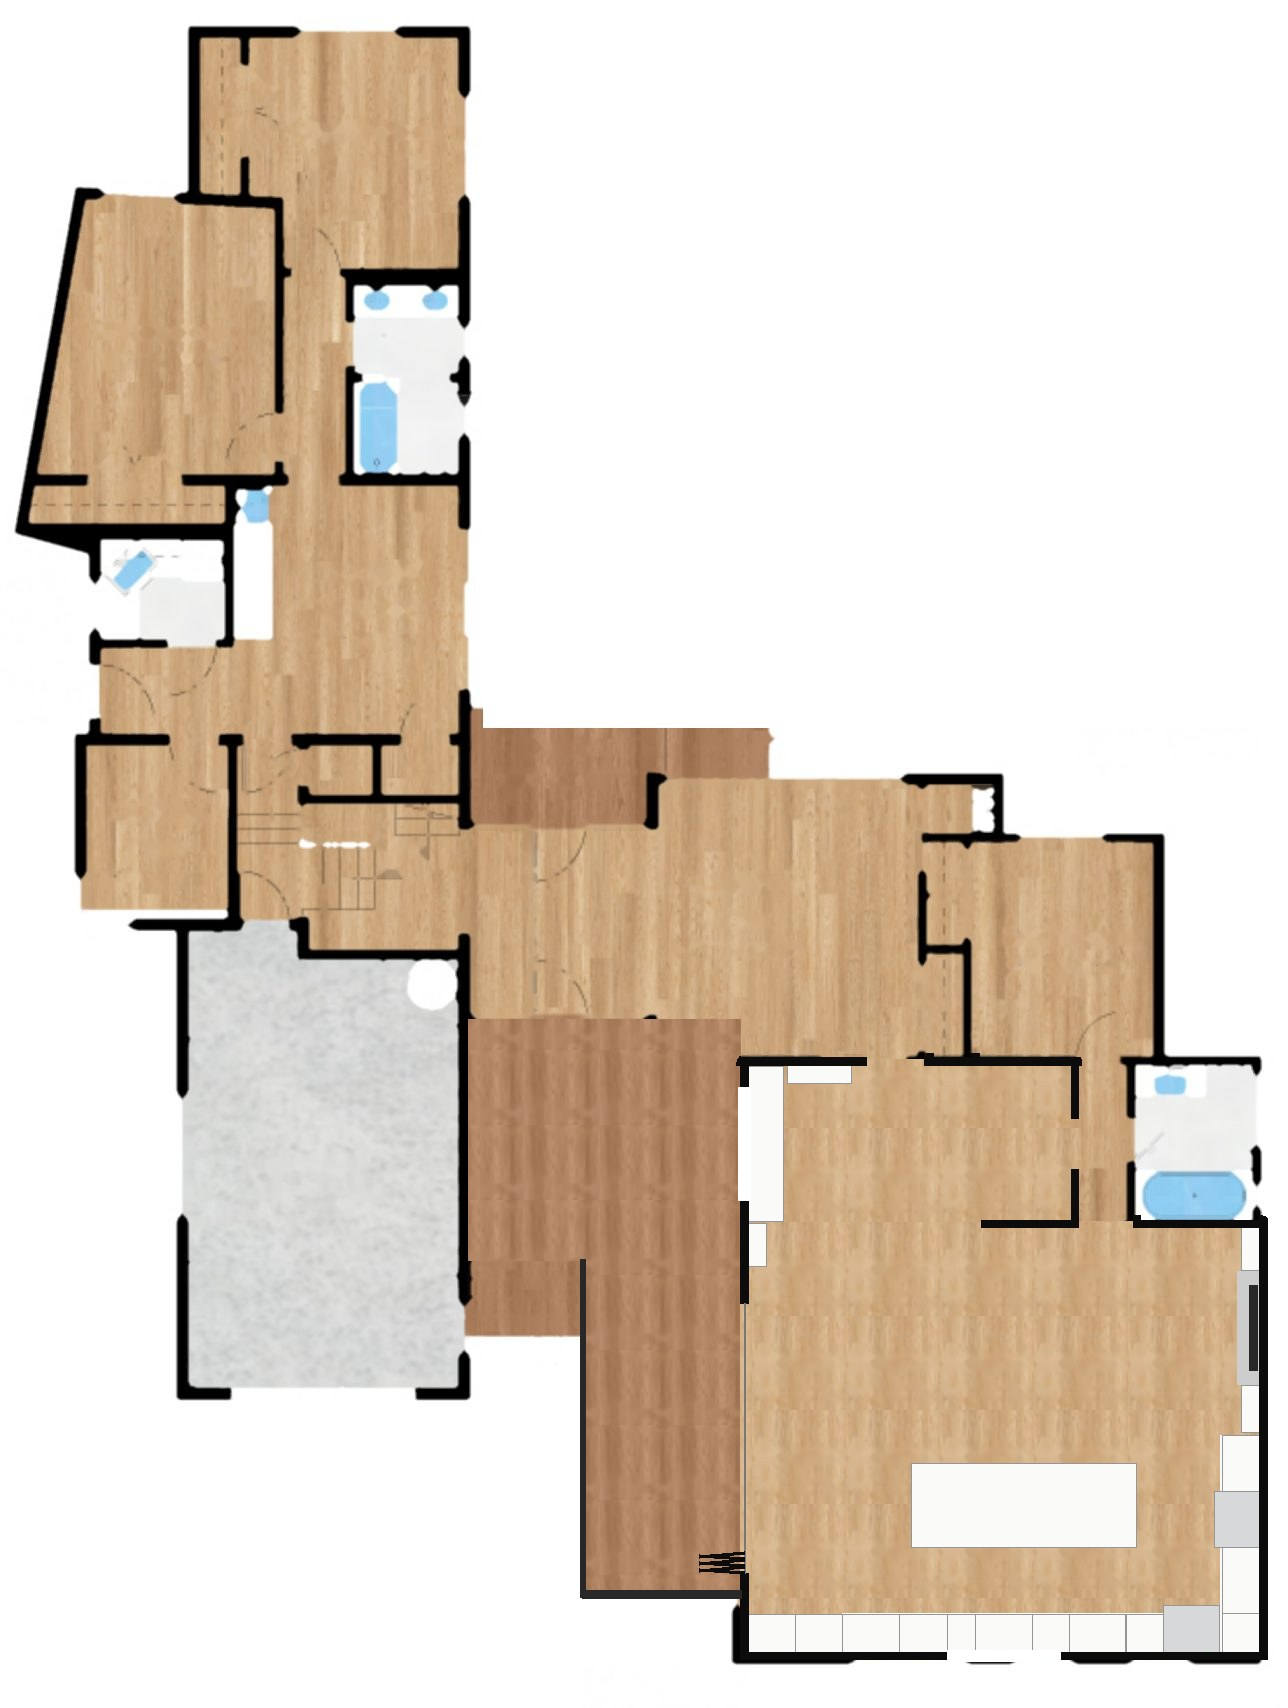
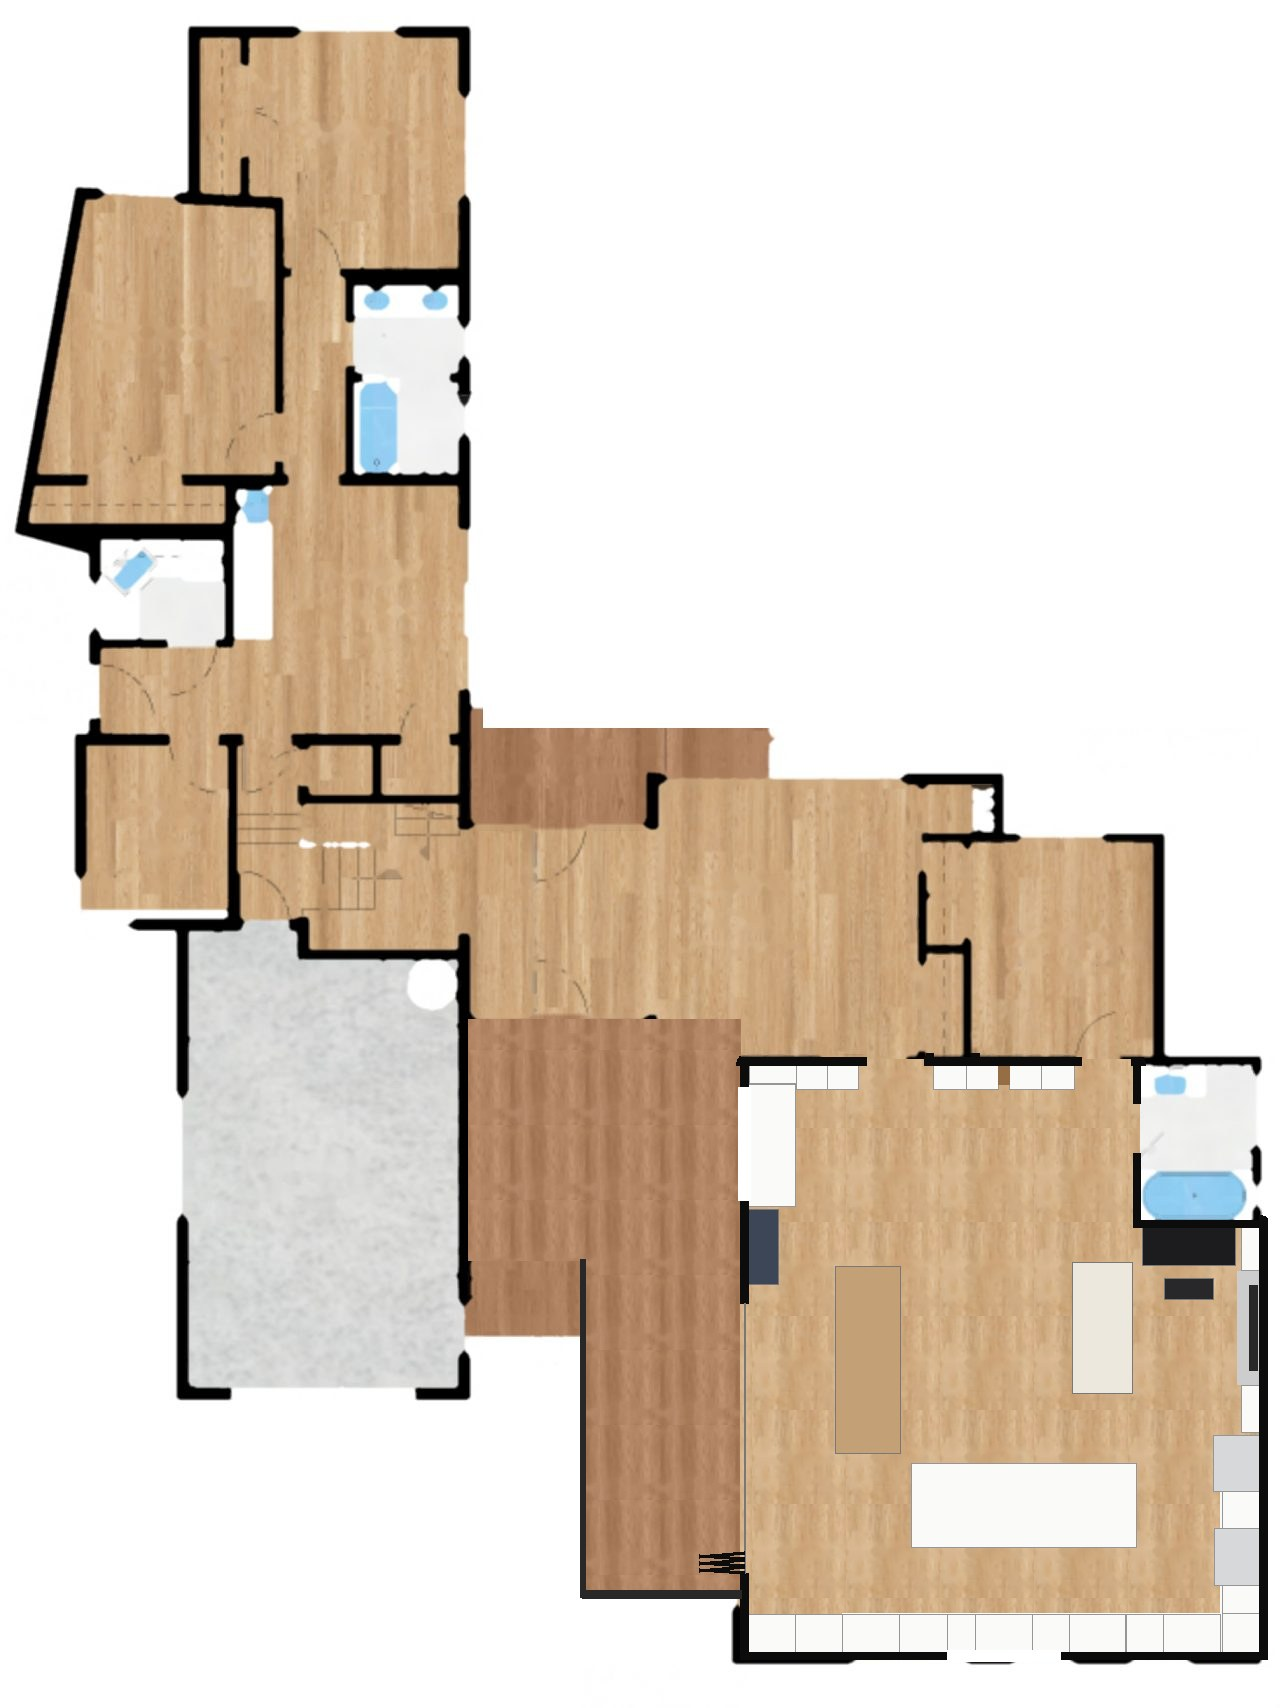
Open kitchen and great room v2: design rationale, corner floor plan image for the new layout
Claude-Session: https://claude.ai/code/session_01Hxt75sfKTMFyJxUTwDrGyS

diff --git a/tour/bim2/tools/minimap_option.py b/tour/bim2/tools/minimap_option.py
@@ -9,6 +9,7 @@ import os
 sys.path.insert(0, os.path.dirname(os.path.abspath(__file__)))
 import build_open4 as B4
 import plan_svg as RP
+import build_open4k as K4
 T = os.path.join(os.path.dirname(os.path.abspath(__file__)), '..', '..') + '/'
 EXT = [-35.075, -51.493, 33.582, 39.552]          # world x0 (plan y), z0 (plan x), x1, z1
 base = Image.open(T + 'floor_main.jpg').convert('RGB'); Wd, Ht = base.size
@@ -38,9 +39,9 @@ def make(v):
         return t
     OAK, DECK = tiled(oak), tiled(deckp)
     # the area that changes: the old kitchen, the great room (with the two bedrooms), the new deck
-    room = Polygon(B4.ROOM); oldk = Polygon([s for s in D['spaces'] if s['id'] == 'SP-L1-KITCHEN'][0]['polygon']).buffer(0)
+    room = Polygon(K4.ROOM2) if v == 'open4k' else Polygon(B4.ROOM); oldk = Polygon([s for s in D['spaces'] if s['id'] == 'SP-L1-KITCHEN'][0]['polygon']).buffer(0)
     inside = unary_union([room, oldk])
-    deck = unary_union([Polygon(w['poly']).buffer(0) for w in D['walkable'] if w.get('id') == 'SL-DK-K4']).difference(Polygon(B4.ROOM).buffer(.45))
+    deck = unary_union([Polygon(w['poly']).buffer(0) for w in D['walkable'] if w.get('id') == 'SL-DK-K4']).difference(room.buffer(.45))
     region = unary_union([inside.buffer(.62), deck.buffer(.3)])
     mask = Image.new('L', (W_, H_), 0); md = ImageDraw.Draw(mask)
     for ext, holes in poly_px(region): md.polygon(ext, fill=255)
@@ -66,6 +67,19 @@ def make(v):
             col = (250, 250, 248) if k not in ('fridge4Door', 'range36') else (214, 216, 218)
             fill(dr, g, col)
             for ext, holes in poly_px(g): dr.line(ext + [ext[0]], fill=(150, 150, 150), width=1)
+    # the library wall, the beam's post, and the loose pieces that explain the plan (dining table, piano, sideboard, sofa)
+    for f in F:
+        k = f['render']['kind']; pr = f.get('params') or {}
+        if k == 'libraryWall':
+            for a, b, ty in pr.get('bays', []):
+                if ty in ('post', 'door'): continue
+                g = sbox(f['at'][0], f['at'][1] + a, f['at'][0] + (pr.get('baseD', 1) if ty == 'base' else pr.get('d', 1)), f['at'][1] + b); fill(dr, g, (250, 250, 248))
+                for ext, holes in poly_px(g): dr.line(ext + [ext[0]], fill=(150, 150, 150), width=1)
+        elif k in ('diningTable', 'pianoUpright', 'sideboard', 'sofa3', 'pianoBench'):
+            w_, d_, sh = RP.LOOSE[k]; f2 = dict(f); f2['params'] = dict({'w': w_, 'd': d_}, **{kk: vv for kk, vv in pr.items() if kk in ('w', 'd')}); g = RP.foot(f2)
+            fill(dr, g, {'diningTable': (196, 160, 118), 'pianoUpright': (28, 28, 30), 'pianoBench': (40, 40, 42), 'sideboard': (60, 70, 86), 'sofa3': (236, 232, 222)}[k])
+            for ext, holes in poly_px(g): dr.line(ext + [ext[0]], fill=(120, 120, 120), width=1)
+    if v == 'open4k': fill(dr, sbox(K4.POST[0], K4.POST[2], K4.POST[1], K4.POST[3]), (150, 110, 70))
     # fireplace
     fill(dr, sbox(16.3, B4.Y_N - 1.2, 22.3, B4.Y_N), (205, 205, 205)); fill(dr, sbox(17.05, B4.Y_N - .55, 21.55, B4.Y_N - .15), (40, 40, 40))
     # walls (black) of the option, cut at the openings; windows white, doors open

diff --git a/tour/CONCEPT-4BR.md b/tour/CONCEPT-4BR.md
@@ -170,6 +170,74 @@ decking, skirt and cable rail as the porch.
 Same shell as the first version: the front and middle bedrooms and their closets come out, the back bedroom, hall and hall bath
 stay, and the exposed fir ridge beam carries the ridge. Only what changes is listed here.
 
+## v2 (r43f): one room from gable to gable. Design rationale
+
+**Illustrative idea. Not designed or reviewed by an architect or engineer.** This section replaces the layout notes further down
+wherever they differ (the "reading nook", the dining table for six, the fridge on the gable wall).
+
+**What was wrong.** The first build of this plan took out the two bedrooms and the old kitchen but left the walls that only served
+them: a stub between the old kitchen and the great room, the rest of that wall up to the bath with a door that now led from a hall
+to nowhere, and two short pieces of wall between the old kitchen and the hall. The owner: "a random bit of wall and a vestigial
+door ... extend that beam a little bit longer and open all of that up."
+
+**What comes out.** W-L1-041, 042, 043 (the stub and the hall / bedroom wall) with door D-L1-06; W-L1-014 and 015 (the two pieces
+between the old kitchen and the hall); the hall's flat 8-ft ceiling. Nothing is left standing inside the room.
+
+**What stays, and why.** The exterior walls. The original west gable wall of the 1950s house (W-L1-033 to 038): it closes the
+room, carries the beam's post, and has the pocket door to the living room and the door to the west bedroom. The hall bath's two
+walls (W-L1-016, W-L1-044) and the corner where the removed wall met them. The west bedroom, its closets, the laundry, the entry
+and the living room are untouched.
+
+**Structure.** The vault now runs 31 ft 4 in from the street gable to the west gable wall, and the ridge beam runs with it as one
+clear span: no post in the room. It is drawn as a 6-3/4 by 24 in glulam, which a rough check says is the right order of size for
+this roof (about 14 ft of roof on the beam); an engineer sizes it, and steel is the alternative if the depth has to come down. The
+west end sits on a post against the gable wall, on a new footing below; the east end bears in the street gable over the kitchen
+window's header, with posts either side of the window. **Fallback:** if the clear span proves too costly, one post on the old
+wall line (about 8 ft 8 in from the west wall) cuts the main span to 22 ft 8 in; it would stand at the edge of the library rug.
+The hall's ceiling joists come out, so the rafters over it need the same tie or ridge support as the rest of the vault.
+
+**The library.** The old kitchen and hall are the west end of the room, where three doors arrive (living room, bedroom, bath).
+Instead of a nook in a corner, the west gable wall becomes the room's second focal wall: shelved from the floor to the ceiling
+line, 8 ft at the south eave rising to 13 ft 7 in under the ridge, with the living-room door passing through the books, cabinets
+below, and a rolling ladder on a rail. The beam's post is the centre of the tall bays. So the room has an axis: from the island
+you look 31 ft down the beam to a wall of books; from the living-room door you look the other way down the dining table to the
+kitchen and the gable glass. A window seat 6-1/2 ft long and 2-1/2 ft deep fills the south window, which looks onto the front
+porch. Two reading chairs sit in front of the tall bays, under a fifth skylight on the north slope
+where the hall was: the darkest part of the old plan gets even north light, which is what a reading chair and book spines want.
+From the chairs you see the fire across the room.
+
+**Piano.** An upright on the bath's east wall, beside the fireplace: an inside wall, out of the sun, away from the folding wall's
+draughts and from the kitchen. The pianist is part of the living group. (It was first drawn on the south wall next to the folding
+wall; the ten-seat table needs that floor, and an outside wall beside a wall that opens is the wrong place for a piano.)
+
+**Dining.** This is the house's only dining table, so it is sized as one: an extending table, 8 ft by 3 ft 6 in for eight every
+day, 10 ft with the leaf in for ten. It is shown extended, with four chairs a side and one at each end (30 in a place on the
+sides). It runs along the folding glass wall: 3 ft clear behind the chairs on the glass side, about 7-1/2 ft on the room side,
+which is the main way through. A sideboard stands on the south wall between the window seat and the glass. The island stools
+moved north so the nearest is clear of the table's corner chair.
+
+**Kitchen.** Fridge at the room end of the range wall, with a panelled end toward the living area: a drink is fetched without
+passing the range. Then 2 ft of drawers, the 36-in range and hood, and the corner. The island gets a prep sink at its north end.
+Fridge to range is about 5 ft, range to prep sink 6 ft, prep sink to fridge 6-1/2 ft. The sink under the window and the
+dishwasher on the gable wall are the clean-up side, with the two pantry cabinets at the dining end. Aisles: 3-1/2 ft between
+island and gable-wall counter, 4-1/2 ft between island and range counter.
+
+**Getting around.** Everyone arrives at the west end and reaches the living area, the table and the deck without entering the
+kitchen. The way to the deck is along the glass or round the east end of the table, past the pantry end of the kitchen, not the
+cooking end. The kitchen is entered at its north end by the fridge, or from the dining end.
+
+**Doors onto the room.** The bedroom and bath doors now open onto the library's north edge instead of a hall. The bath door
+becomes a pocket door sliding east into its wall, so no leaf stands open toward the room; in the 3D model it is the house's own
+hinged door, shown shut (it still swings if tapped). The bedroom door wants a solid core. This loss of a buffer is the real cost
+of taking the hall out, and a buyer who minds it should keep a short screen wall by the bath door.
+
+**Model notes (v2).** New page pieces: `libraryWall` (builtins.js), `pianoUpright` and `pianoBench` (staging.js), an `island`
+option `sinkEnd` for a prep sink (fixtures.js), and an option key `restShut` (doors of the house that rest shut while the plan
+shows). The old kitchen's space id is kept and renamed Library, enlarged over the hall; the hall space is dropped. New element
+ids: `W-L1-K5P` (wall faces left bare), `W-L1-K5C` (bath corner collider), `PT-L1-K5W` (post). Viewpoints: foyer, entry, library,
+windowseat, hall, kitchen, kitchenrun, living, dining, deck, driveway, street, aerial. Drawings: `bim2/tools/plan_svg.py`;
+minimap: `bim2/tools/minimap_option.py open4k`.
+
 ## Where the kitchen goes: three options
 
 The room is about 22.7 ft east-west (x 13.9 to 36.6) by 27.3 ft north-south (y 4.8 to 32.1), entered at its west end from the old
@@ -231,12 +299,12 @@ wall; dining: glass and deck). B is the budget version and is not worth it here 
   the island to the range.
 - **Living** (middle, north side): a 6-ft-wide gas fireplace on the north wall where the middle bedroom's window was, with a fir
   mantel at 4¼ ft, built-in bookcases either side, a sofa facing it across a rug, an ottoman and two armchairs.
-- **Dining** (west, south side): a 7-ft glass table with six parsons chairs along the folding glass wall, under a skylight.
+- **Dining** (west, south side): first a 7-ft glass table for six; in v2 an extending oak table for eight, ten with the leaf in (see above).
 - **Old kitchen**: taken out entirely and reused as a reading nook (below).
 - **Skylights**: four 2½ ft by 3 ft skylights in wells through the vault: two over the island, one over the dining table, one
   over the living area.
 
-### The old kitchen, reused (r43, owner: "that counter / cabinets should be removed to use for other purposes")
+### The old kitchen, reused: first pass, replaced by the v2 library above (r43, owner: "that counter / cabinets should be removed to use for other purposes")
 Every cabinet, counter, the peninsula, the sink, the range slot, the fridge alcove's tower and all appliances come out; its walls,
 window and doors stay, and the oak floor (already one continuous floor under the cabinets) runs through. The space is about 10.8
 by 13.5 ft plus the alcove to the bedroom hall.
